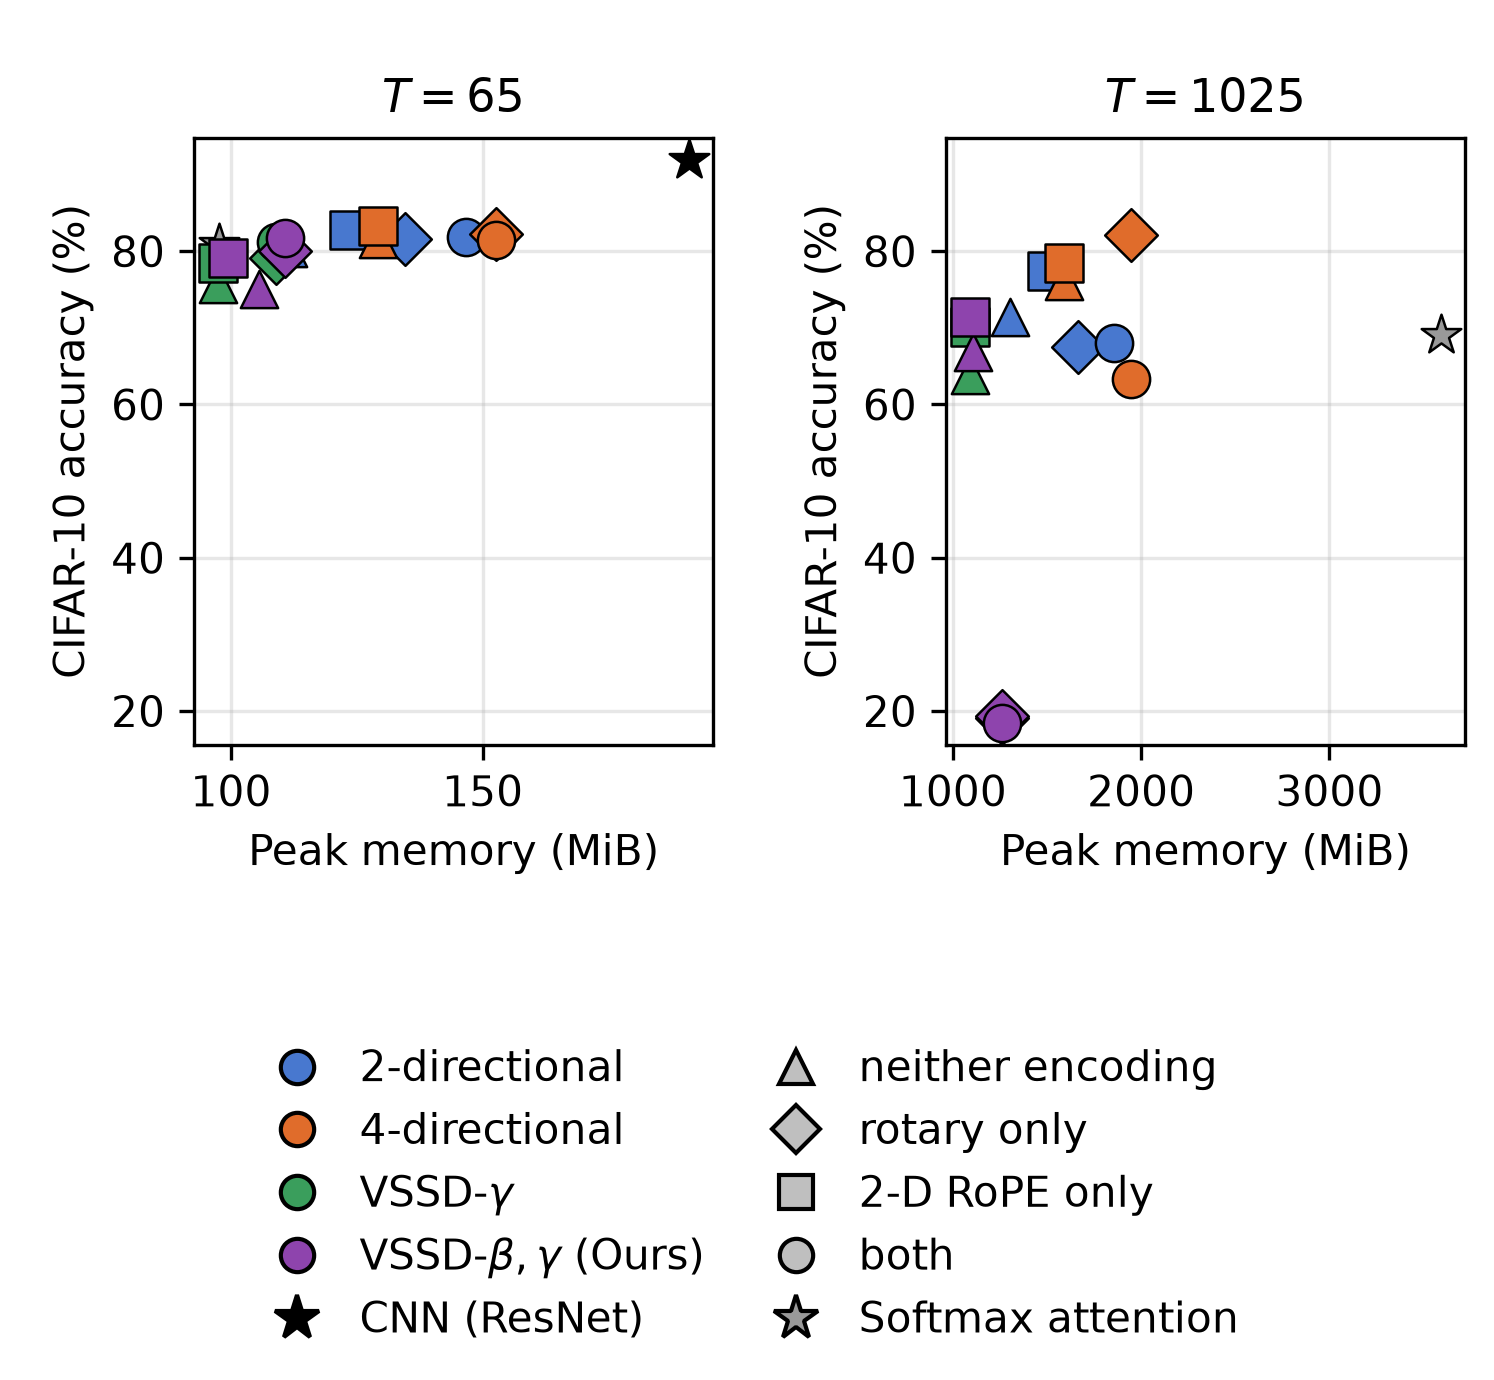
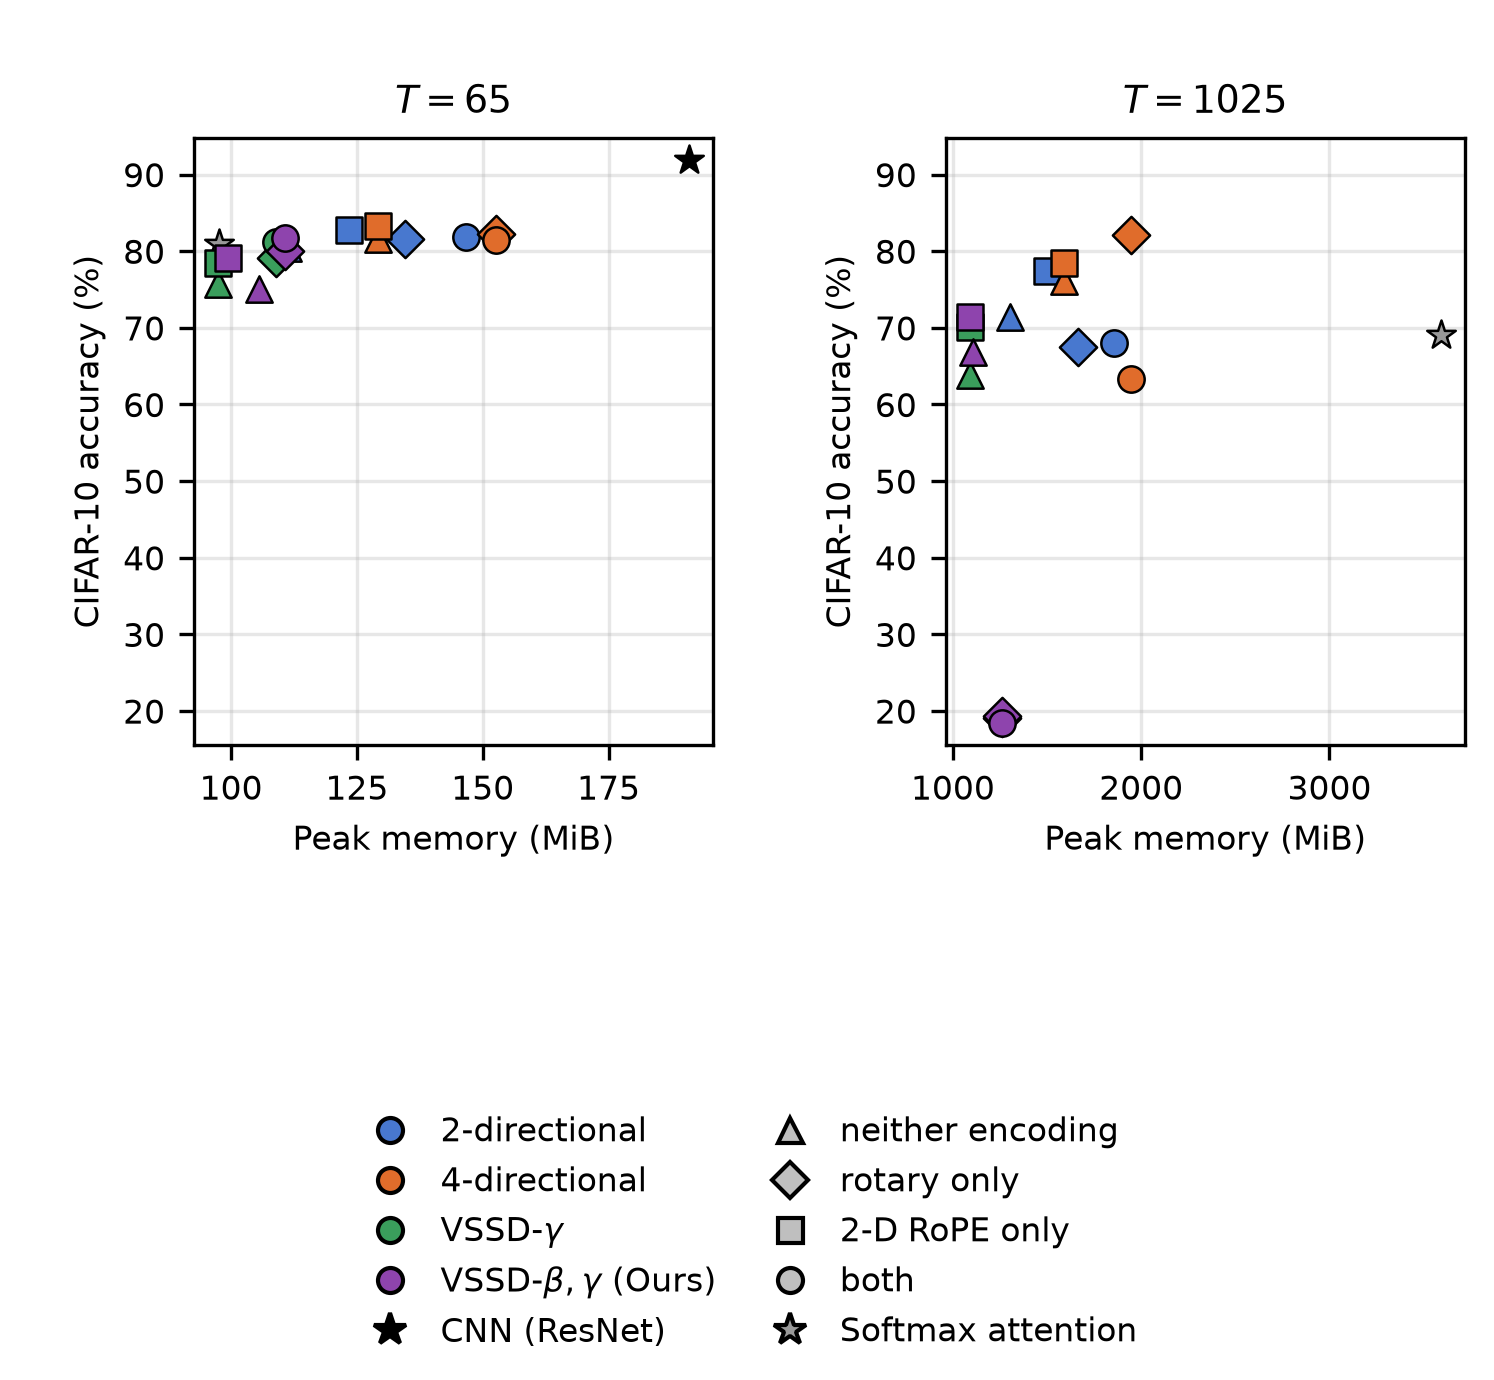
plot: size Fig 7's text to the paper's body text, and stop the markers overlapping
The figure draws 1:1 -- its 478pt canvas is placed at 0.92 x 522 = 480pt -- so a font
size set in the script is the printed size. At 10pt that made the plot the largest text
on its page: elsarticle[5p] sets 9pt body, \small table bodies and \footnotesize
captions, so the axis labels, ticks and legend all read larger than the table they sit
under. One FONT_PT/TITLE_PT pair now drives every text size at 8pt/9pt, matching the
table body and clearing Elsevier's 7pt artwork floor.

The markers were the worse half. Sixteen points crowd into ~40 MiB of the T=65 panel, and
at s=100/80 they covered each other so completely the encodings could not be told apart.
Scaled to 52/40 with the legend keys from 8/11 to 6/8.

The old bottom=0.50 reserved legend height for 10pt text. At 8pt that space is surplus, so
it goes back to the axes (bottom=0.40, fig_h 3.4 -> 3.0): the panels are less squashed and
the float is shorter, which keeps it near the text that introduces it.

Verified on the rendered page rather than the source, at both sizes.

diff --git a/scripts/make_ablation_table.py b/scripts/make_ablation_table.py
@@ -109,6 +109,12 @@ ROWS = [
 # by \linewidth / FIG_W.
 FIG_W = 360 / 72.27  # pt -> in; matches mamba3_attention.tex's \textwidth exactly
 
+# The figure is drawn 1:1 (its 478pt canvas is placed at 0.92*522 = 480pt), so a font
+# size set here IS the printed size. elsarticle[5p] sets 9pt body, \small tables and
+# \footnotesize captions, so the old 10pt made the plot the largest text on the page.
+# 8pt matches the table body and clears Elsevier's 7pt artwork floor.
+FONT_PT, TITLE_PT = 8, 9
+
 
 def cell(run_dir: str, variant: str) -> dict | None:
     p = REPO / "result" / run_dir / "results.json"
@@ -226,9 +232,9 @@ def _legend_handles(grouped_cols: bool = False) -> list[Line2D]:
     def blank():
         return Line2D([], [], linestyle="none", marker="none", label=" ")
 
-    ops = [mark("o", OP_COLOURS[k], 8, OP_LABELS[k]) for k in OP_COLOURS]
-    encs = [mark(ENC_MARKERS[k], "0.75", 8, ENC_LABELS[k]) for k in (NONE, ROT, ROPE, BOTH)]
-    bases = [mark("*", v, 11, k) for k, v in BASE_COLOURS.items()]
+    ops = [mark("o", OP_COLOURS[k], 6, OP_LABELS[k]) for k in OP_COLOURS]
+    encs = [mark(ENC_MARKERS[k], "0.75", 6, ENC_LABELS[k]) for k in (NONE, ROT, ROPE, BOTH)]
+    bases = [mark("*", v, 8, k) for k, v in BASE_COLOURS.items()]
 
     if grouped_cols:
         rows = max(len(ops), len(encs), len(bases))
@@ -278,14 +284,14 @@ def write_plot(rows, out: Path = None, fig_w: float = None,
             if i != idx:
                 continue
             base = op in BASE_COLOURS
-            ax.scatter(d["mem"], d["acc"], s=100 if base else 80,
+            ax.scatter(d["mem"], d["acc"], s=52 if base else 40,
                        marker="*" if base else ENC_MARKERS[enc],
                        color=BASE_COLOURS[op] if base else OP_COLOURS[op],
                        edgecolors="black", linewidths=0.6, zorder=3)
-        ax.set_xlabel("Peak memory (MiB)", fontsize=10)
-        ax.set_ylabel("CIFAR-10 accuracy (%)", fontsize=10)
-        ax.set_title(title, fontsize=11)
-        ax.tick_params(labelsize=10)
+        ax.set_xlabel("Peak memory (MiB)", fontsize=FONT_PT)
+        ax.set_ylabel("CIFAR-10 accuracy (%)", fontsize=FONT_PT)
+        ax.set_title(title, fontsize=TITLE_PT)
+        ax.tick_params(labelsize=FONT_PT)
         ax.grid(alpha=0.3)
 
     # ncol=2 (not 4): a 4-column legend is wider than the two subplots combined,
@@ -293,7 +299,7 @@ def write_plot(rows, out: Path = None, fig_w: float = None,
     # the FIG_W == \linewidth point-for-point match every font size above relies
     # on. 2 columns fits inside the subplots' own width, so nothing overflows and
     # bbox_inches=None (below) saves at exactly figsize, no surprise rescale.
-    fig.legend(handles=_legend_handles(grouped_cols=legend_cols == 3), loc="lower center", ncol=legend_cols, fontsize=10,
+    fig.legend(handles=_legend_handles(grouped_cols=legend_cols == 3), loc="lower center", ncol=legend_cols, fontsize=FONT_PT,
                frameon=False, bbox_to_anchor=(0.5, 0.0),
                columnspacing=1.2, handletextpad=0.5)
     fig.subplots_adjust(left=0.13, right=0.98, top=0.90, bottom=bottom, wspace=0.45)
@@ -329,8 +335,11 @@ def main() -> int:
     write_plot(rows)
     if args.paper_out:
         write_paper_table(rows, args.paper_out / "tab_cifar_body.tex")
+        # bottom/fig_h were tuned for the old 10pt legend; at 8pt it needs less
+        # reserved height, and giving the space back to the axes both un-squashes
+        # the panels and shortens the float.
         write_plot(rows, args.paper_out / "fig_cifar_mem_acc.pdf", PAPER_FIG_W,
-                   fig_h=3.4, legend_cols=3, bottom=0.50)
+                   fig_h=3.0, legend_cols=3, bottom=0.40)
     if missing:
         print("\nCells still unmeasured (printed as '--'):")
         for m in missing:
